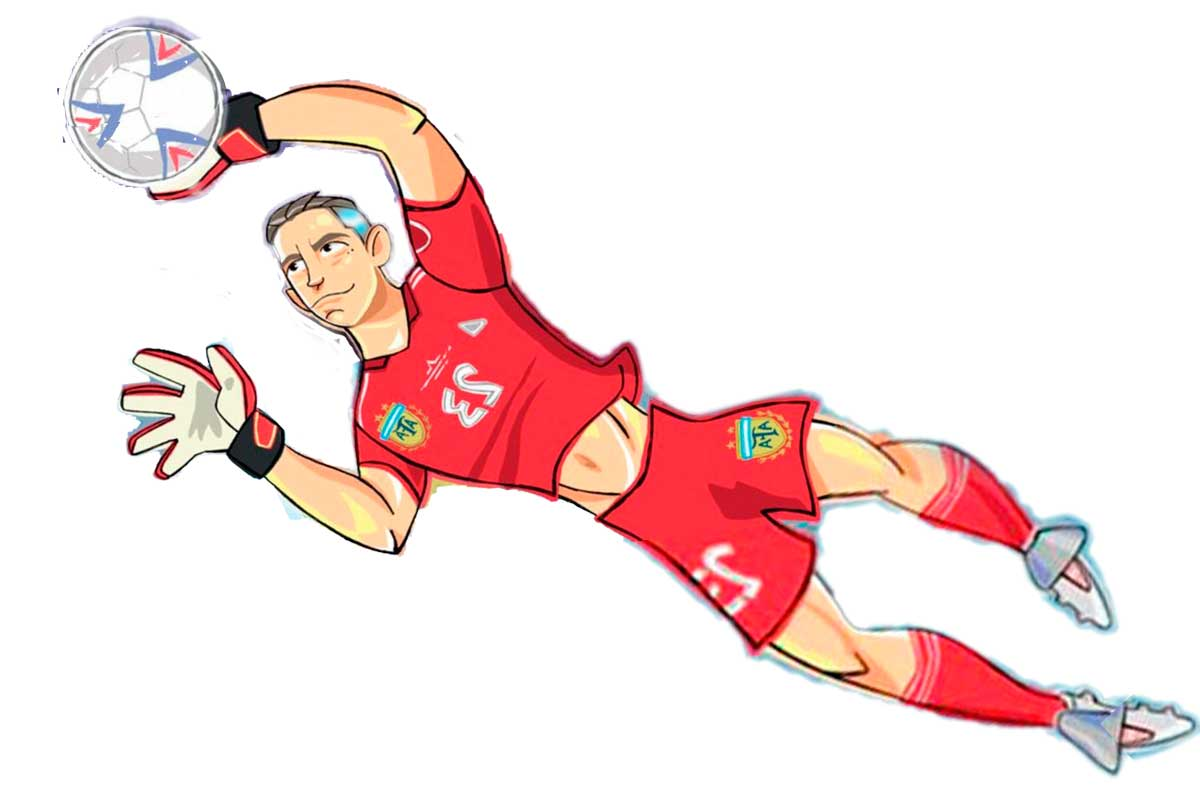
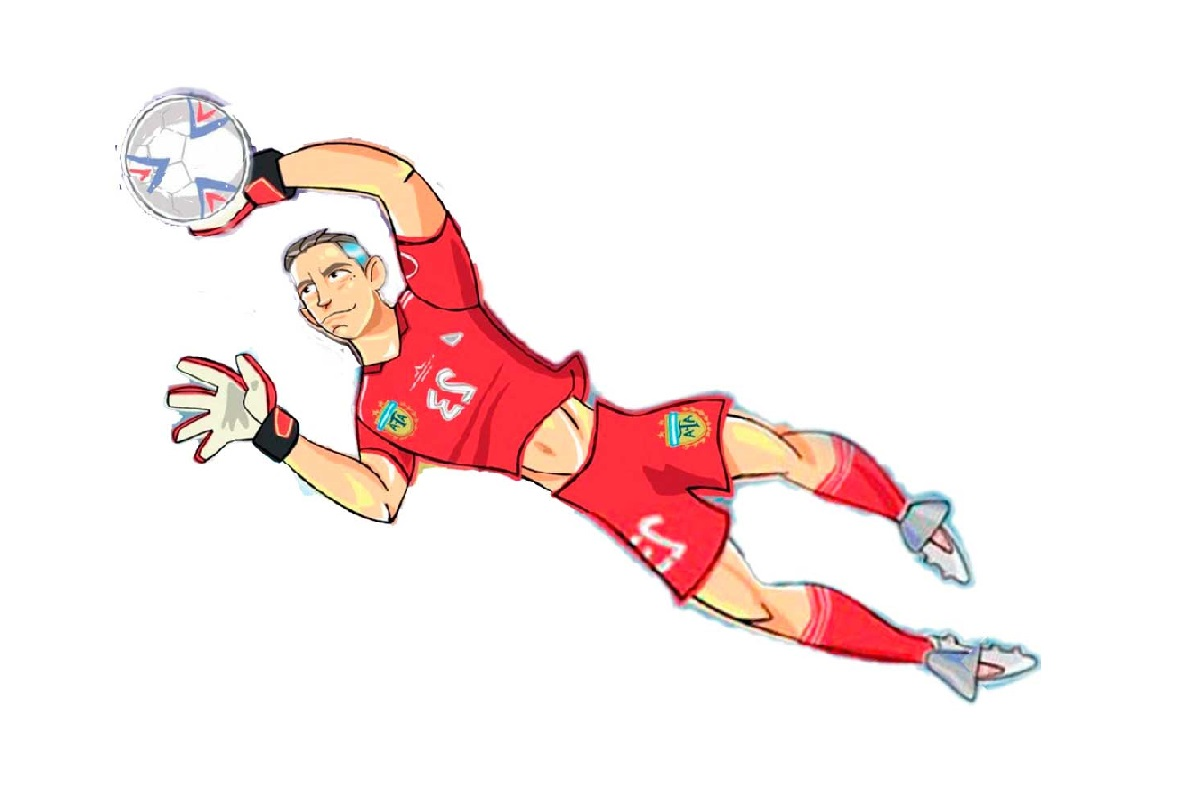
CSS: primeros estilos con flexbox

Changed region(s): [[0.0308, 0.0, 1.0, 0.9688]]

diff --git a/index.js b/index.js
@@ -61,7 +61,7 @@ function partido() {
     if (disparoJugador == "IZQUIERDA" && respuestaDibu == "IZQUIERDA") {
         imagen.innerHTML = `
         <p>ATAJA DIBU!!!!</p>
-        <img src="./img/izquierda.jpg"/>
+        <img class="foto-partido" src="./img/izquierda.jpg"/>
         `
         sectionJugada.appendChild(imagen);
         atajadas++;
@@ -69,7 +69,7 @@ function partido() {
     }else if(disparoJugador == "CENTRO" && respuestaDibu == "IZQUIERDA"){
         imagen.innerHTML = `
         <p>GOL!!!!</p>
-        <img src="./img/izquierda_centro.jpg"/>
+        <img class="foto-partido" src="./img/izquierda_centro.jpg" />
         `
         sectionJugada.appendChild(imagen);
         goles++;
@@ -77,7 +77,7 @@ function partido() {
     }else if (disparoJugador == "DERECHA" && respuestaDibu == "IZQUIERDA") {
         imagen.innerHTML = `
         <p>GOL!!!!</p>
-        <img src="./img/izquierda_derecha.jpg"/>
+        <img class="foto-partido" src="./img/izquierda_derecha.jpg"/>
         `
         sectionJugada.appendChild(imagen);
         goles++;
@@ -85,7 +85,7 @@ function partido() {
     }else if (disparoJugador == "IZQUIERDA" && respuestaDibu == "CENTRO") {
         imagen.innerHTML = `
         <p>GOL!!!!</p>
-        <img src="./img/centro_izquierda.jpg"/>
+        <img class="foto-partido" src="./img/centro_izquierda.jpg"/>
         `
         sectionJugada.appendChild(imagen);
         goles++;
@@ -93,7 +93,7 @@ function partido() {
     }else if (disparoJugador == "CENTRO" && respuestaDibu == "CENTRO") {
         imagen.innerHTML = `
         <p>ATAJA DIBU!!!!</p>
-        <img src="./img/centro.jpg"/>
+        <img class="foto-partido" src="./img/centro.jpg"/>
         `
         sectionJugada.appendChild(imagen);
         atajadas++;
@@ -101,7 +101,7 @@ function partido() {
     }else if (disparoJugador == "DERECHA" && respuestaDibu == "CENTRO") {
         imagen.innerHTML = `
         <p>GOL!!!!</p>
-        <img src="./img/centro_derecha.jpg"/>
+        <img class="foto-partido" src="./img/centro_derecha.jpg"/>
         `
         sectionJugada.appendChild(imagen);
         goles++;
@@ -109,15 +109,15 @@ function partido() {
     }else if (disparoJugador == "IZQUIERDA" && respuestaDibu == "DERECHA") {
         imagen.innerHTML = `
         <p>GOL!!!!</p>
-        <img src="./img/derecha_izquierda.jpg"/>
+        <img class="foto-partido" src="./img/derecha_izquierda.jpg"/>
         `
         sectionJugada.appendChild(imagen);
         goles++;
         spanContadorGoles.innerHTML = goles;
     }else if (disparoJugador == "CENTRO" && respuestaDibu == "DERECHA") {
         imagen.innerHTML = `
-        <p>ATAJA DIBU!!!!</p>
-        <img src="./img/derecha_centro.jpg"/>
+        <p>GOL!!!!</p>
+        <img class="foto-partido" src="./img/derecha_centro.jpg"/>
         `
         sectionJugada.appendChild(imagen);
         atajadas++;
@@ -125,7 +125,7 @@ function partido() {
     }else{
         imagen.innerHTML = `
         <p>ATAJA DIBU!!!!</p>
-        <img src="./img/derecha.jpg"/>
+        <img class="foto-partido" src="./img/derecha.jpg"/>
         `
         sectionJugada.appendChild(imagen);
         atajadas++;

diff --git a/index.html b/index.html
@@ -4,14 +4,18 @@
     <meta charset="UTF-8">
     <meta name="viewport" content="width=device-width, initial-scale=1.0">
     <title>Jugá con Dibu</title>
+    <link rel="stylesheet" href="./css/style.css">
 </head>
 <body>
-    <h1>JUGÁ CON "EL DIBU" ⚽⚽⚽</h1>
-
+    <section id="contenedor">
         <section id="display-dibu">
-            <img src="./img/frente.jpg" alt="Emiliano Dibu Martinez">
+            <h1>JUGÁ CON "EL DIBU"</h1>
+            <img src="./img/frente.jpg" alt="Emiliano Dibu Martinez" class="display-dibu__foto">
         </section>
-        
+            
+        <section id="jugada">
+        </section>
+            
         <section id="direccion">
             <h2>ELIGE ADÓNDE QUERÉS PATEAR</h2>
             <p>
@@ -19,33 +23,31 @@
                 <button id="direccion__centro">CENTRO</button>
                 <button id="direccion__derecha">DERECHA</button>
             </p>
-            <!-- <label for="izquierda">Izquierda</label>
-            <input type="radio" name="patada" id="izquierda">
-            
-            <label for="centro">Centro</label>
-            <input type="radio" name="patada" id="centro">
-            
-            <label for="derecha">Derecha</label>
-            <input type="radio" name="patada" id="derecha">
+                <!-- <label for="izquierda">Izquierda</label>
+                <input type="radio" name="patada" id="izquierda">
+                
+                <label for="centro">Centro</label>
+                <input type="radio" name="patada" id="centro">
+                
+                <label for="derecha">Derecha</label>
+                <input type="radio" name="patada" id="derecha">
 
-            <button id="direccion__boton">Seleccionar</button> -->
-        </section>
+                <button id="direccion__boton">Seleccionar</button> -->
         
-        <section id="jugada">
-           
-        </section>
-        
-        <section id="contador">
-            <h2>RESULTADO</h2>
-            <p>Goles: <span id="contador__goles">0</span></p>
-            <p>Atajadas: <span id="contador__atajadas">0</span></p>
-            <p>El ganador es: <span id="contador__ganador"></span></p>
             
         </section>
-        
-        <section id="reiniciar">
-            <button id="reiniciar__boton">Volver a jugar</button>
+            
+        <section id="contador">
+                <h2>RESULTADO</h2>
+                <p>Goles: <span id="contador__goles">0</span></p>
+                <p>Atajadas: <span id="contador__atajadas">0</span></p>
+                <p>El ganador es: <span id="contador__ganador"></span></p>
         </section>
-        <script src="index.js"></script>
+            
+        <section id="reiniciar">
+                <button id="reiniciar__boton">Volver a jugar</button>
+        </section>
+            <script src="index.js"></script>
+    </section>
 </body>
 </html>

diff --git a/css/style.css b/css/style.css
@@ -1,0 +1,48 @@
+body {
+    margin: 0;
+    padding: 0;
+    box-sizing: border-box;
+    background-image: url("/img/fondo.jpg");
+    display: flex;
+    align-items: center;
+    justify-content: center;
+  }
+
+#contenedor {
+    margin-top: 10vh;
+    background-color: white;
+    width: 85%;
+    display: flex;
+    flex-direction: column;
+    align-items: center;
+  }
+
+h1 {
+    text-align: center;
+    width: 80%;
+    font-size: 30px;
+  }
+
+#display-dibu{
+    width: 80%;
+    display: flex;
+    padding: 5vh 0;
+}
+
+.display-dibu__foto{
+  height: 15vh;
+}
+
+h2, p {
+  text-align: center;
+}
+
+div {
+  display: flex;
+  flex-direction: column;
+  align-items: center;
+}
+.foto-partido{
+    width: 40%;
+}
+
